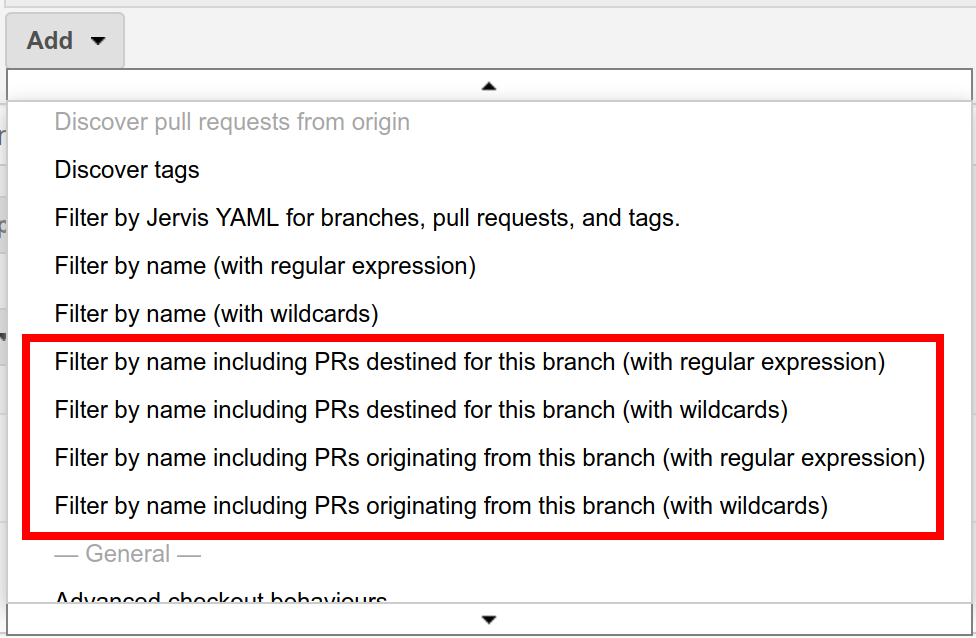
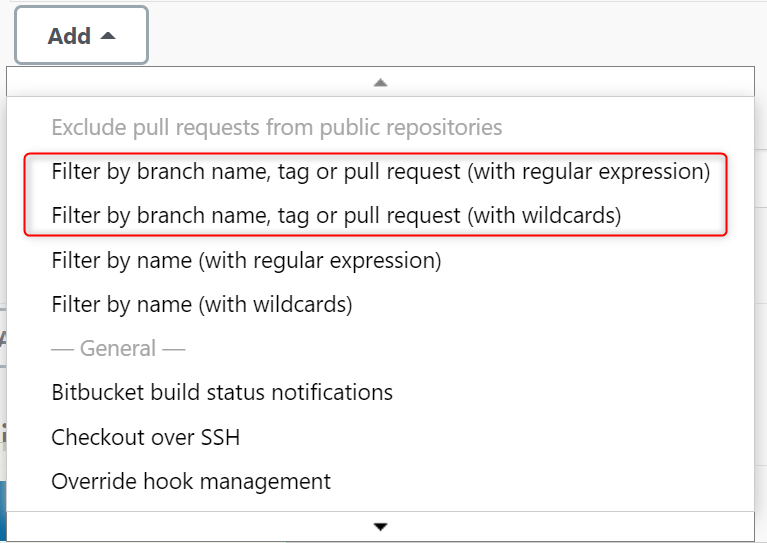
Modify docs according to plugin changes

Changed region(s): [[0.0, 0.0, 1.0, 1.0]]

diff --git a/README.md b/README.md
@@ -13,21 +13,21 @@ tags independently of branches.
 
 # Setup
 
-After installing this plugin four new options will appear in [Pipeline
-Multibranch Plugin][multibranch-pipeline] jobs for configuring branch filters.
+After installing this plugin two new options will appear in [Pipeline
+Multibranch Plugin][multibranch-pipeline] jobs for configuring branch/tag/pull request filters.
 In additional behaviors, click on Add and you'll see the following additional
 filters:
 
 ![Screenshot of filter config][screenshot-config]
 
 Choose only one filter.  The filter will match branches and tags to be built.
-It will also match any pull request destination branch that matches a filtered
-branch to also be built as a pull request by the [Pipeline Multibranch
+It will also match any pull request orgin branch or destination branch that matches a filter 
+to also be built as a pull request by the [Pipeline Multibranch
 Plugin][multibranch-pipeline] job.
 
 # Configuring tag building
 
-This plugin supports filtering both for branches, pull requests destined for
+This plugin supports filtering both for branches, pull requests originated or destined for
 matched branches, **and tags**.  This plugin is meant to satisfy a typical
 tag-based development workflow.  In order to build tags, tag discovery must be
 configured in addition to specifying matching tags.
